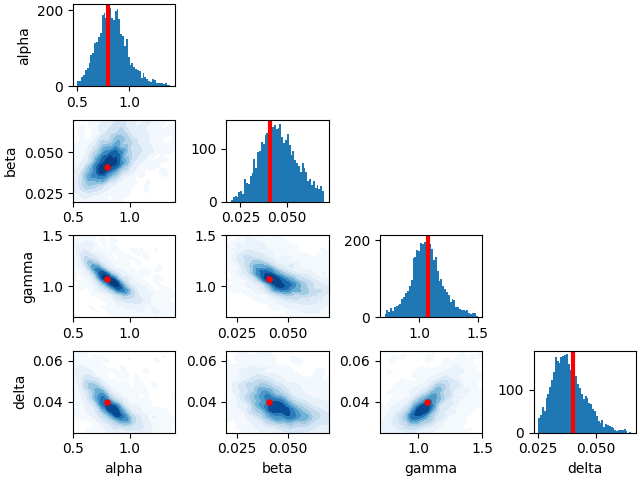
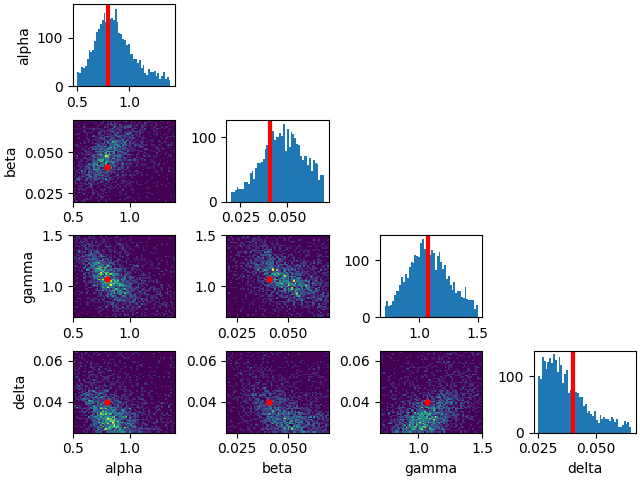
generic commit

diff --git a/scripts/transport/c_transport.py b/scripts/transport/c_transport.py
@@ -336,7 +336,7 @@ def cond_kernel_transport(X_mu, Y_mu, Y_eta, params, Y_approx = [], iters = 0,mm
                         'fit_kernel_params': deepcopy(params['mmd']), 'mmd_kernel_params': deepcopy(params['fit']),
                         'print_freq': 10, 'learning_rate': .001, 'nugget': 1e-5, 'Y_eta_test': Y_eta_test,
                         'X_mu_test': X_mu_test, 'Y_mu_test': Y_mu_test, 'Y_approx_test': Y_approx_test,
-                        'iters': iters, 'grad_cutoff': .0004 ,'mmd_lambda': mmd_lambda}
+                        'iters': iters, 'grad_cutoff': .0002 ,'mmd_lambda': mmd_lambda}
     ctransport_kernel = CondTransportKernel(transport_params)
     train_kernel(ctransport_kernel)#, n_iter=99)
     return ctransport_kernel
@@ -641,8 +641,8 @@ def vl_exp(N=4000, Yd=18, normal=True, exp_name='kvl_exp', n_transports=100, N_p
                     if i < j:
                         x, y = slice_sample[:, torch.tensor([i, j]).long()].T
                         plt_range = [ranges[key_i], ranges[key_j]]
-                        plt.hist2d(x, y, density=True, bins=60, range=plt_range)
-                        #kdeplot(x=x, y=y, fill=True, bw_adjust=0.4, cmap='Blues')
+                        #plt.hist2d(x, y, density=True, bins=60, range=plt_range)
+                        kdeplot(x=x, y=y, fill=True, bw_adjust=0.3, cmap='Blues')
                         plt.scatter(x=slice_val[i], y=slice_val[j], s=13, color='red')
                         if plt_range[0][0] != None:
                             plt.xlim(plt_range[0][0], plt_range[0][1])

diff --git a/scripts/transport/kvae_flow_alt.py b/scripts/transport/kvae_flow_alt.py
@@ -709,8 +709,8 @@ def vl_exp(N=4000, Yd=18, normal=True, exp_name='kvl_exp', n_transports=100,  N_
                     if i < j:
                         x, y = slice_sample[:, torch.tensor([i, j]).long()].T
                         plt_range = [ranges[key_i], ranges[key_j]]
-                        plt.hist2d(x,y, density=True, bins = 60, range = plt_range)
-                        #kdeplot(x=x, y=y, fill=True, bw_adjust=0.4, cmap='Blues')
+                        #plt.hist2d(x,y, density=True, bins = 60, range = plt_range)
+                        kdeplot(x=x, y=y, fill=True, bw_adjust=0.3, cmap='Blues')
                         plt.scatter(x=slice_val[i], y=slice_val[j], s=13, color='red')
                         if plt_range[0][0] != None:
                             plt.xlim(plt_range[0][0], plt_range[0][1])
